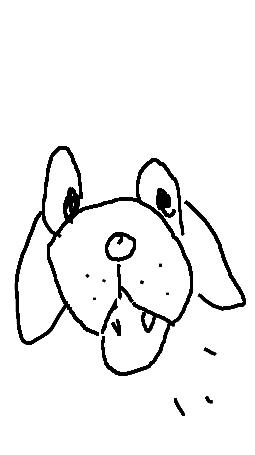
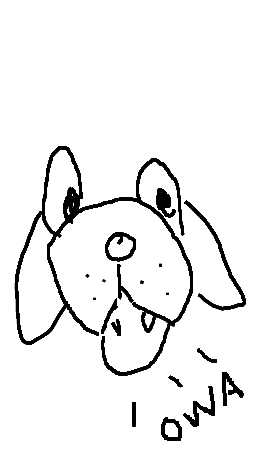
add owa in image, allow tapping on canvas

Changed region(s): [[0.6314, 0.8, 0.9608, 0.9846], [0.7686, 0.7385, 0.851, 0.8], [0.4941, 0.8615, 0.549, 0.9538]]

diff --git a/public/a-4/script.js b/public/a-4/script.js
@@ -69,6 +69,11 @@ function setup() {
 
   cnv = createCanvas(666, 666);
 
+  cnv.elt.addEventListener('touchstart', down)
+  cnv.elt.addEventListener('mousedown', down)
+  cnv.elt.addEventListener('touchend', up)
+  cnv.elt.addEventListener('mouseup', up)
+
   playbtn = createButton('OWA OWA');
   playbtn.elt.id = "play";
   playbtn.elt.addEventListener('touchstart', down)
